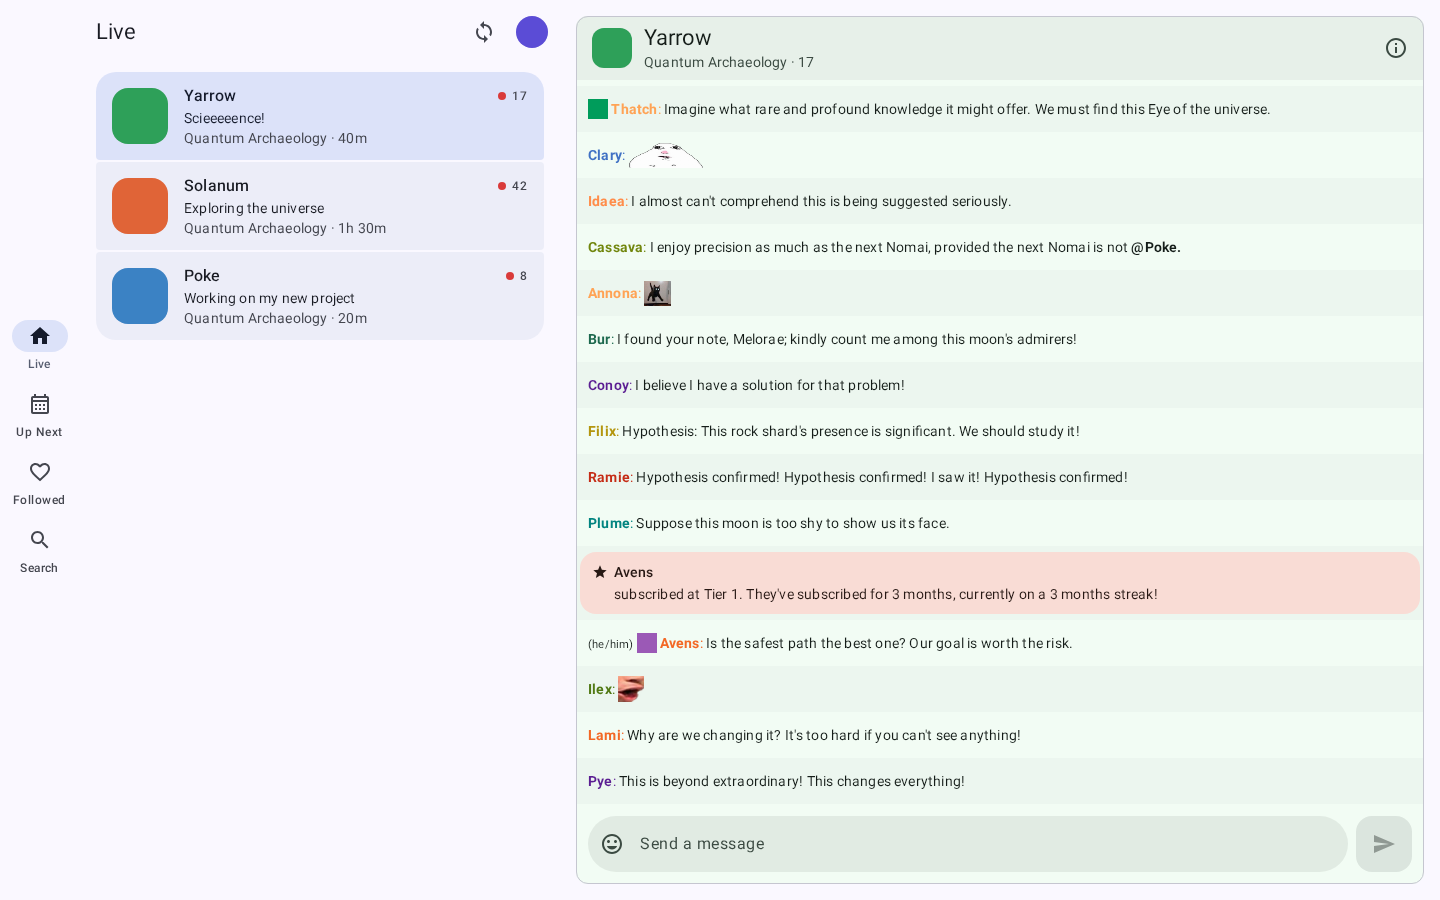
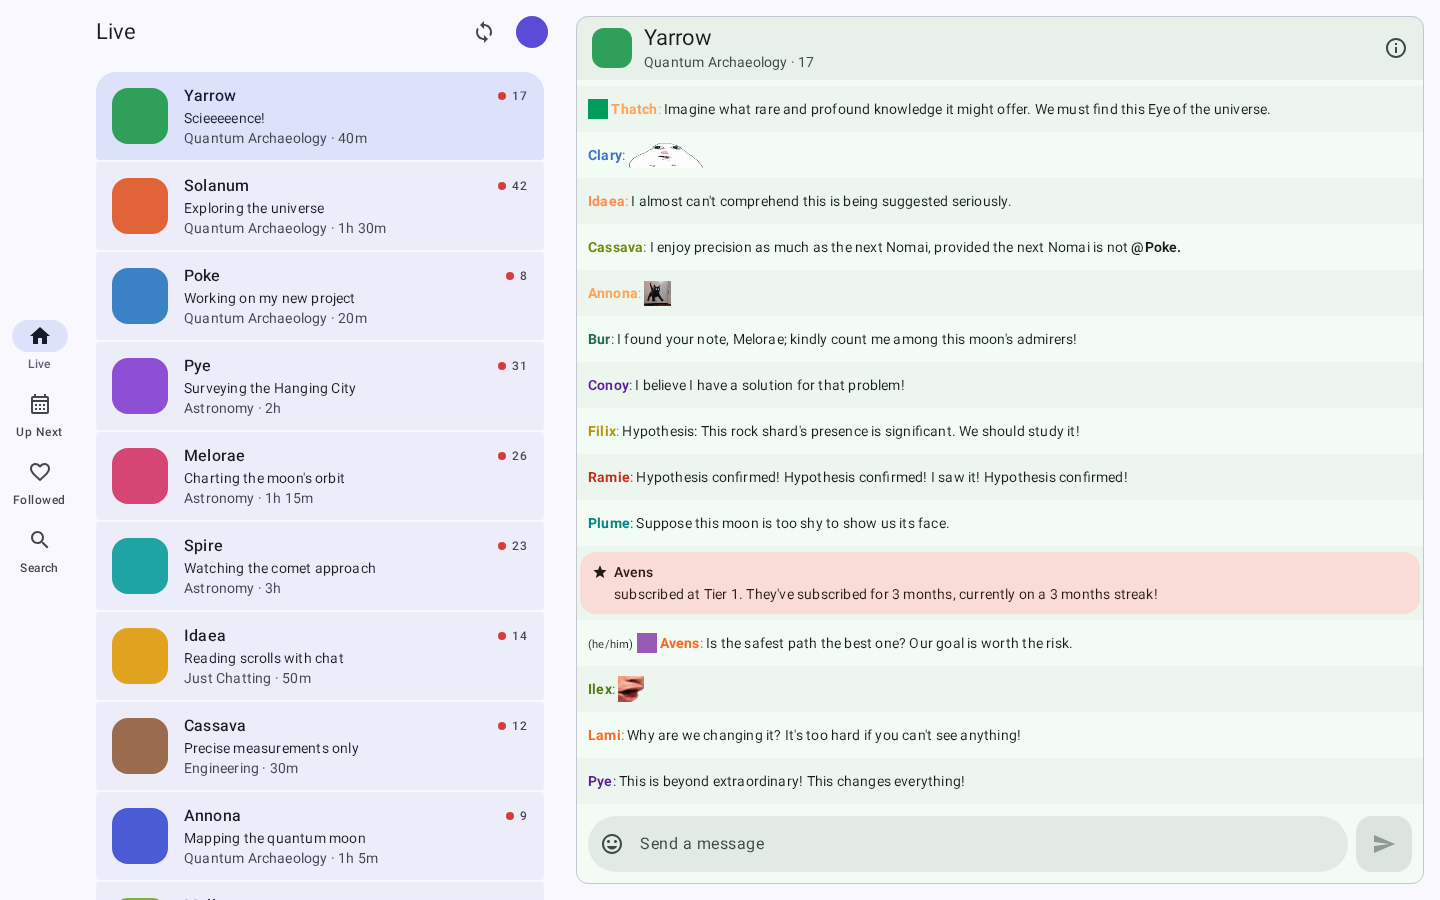
feat: add more data

diff --git a/shared/src/commonMain/kotlin/fr/outadoc/justchatting/feature/demo/data/DemoData.kt b/shared/src/commonMain/kotlin/fr/outadoc/justchatting/feature/demo/data/DemoData.kt
@@ -106,7 +106,17 @@ internal object DemoData {
             description = "All I can give is my best. And as Annona would say, we will find another way.",
         )
 
-    val channels: List<User> = listOf(solanum, yarrow, poke)
+    /** More live channels, so that the list of live streams fills the screen. */
+    private val pye = user(id = "demo-pye", login = "pye", displayName = "Pye", avatar = "demo_avatar_pye")
+    private val melorae = user(id = "demo-melorae", login = "melorae", displayName = "Melorae", avatar = "demo_avatar_melorae")
+    private val spire = user(id = "demo-spire", login = "spire", displayName = "Spire", avatar = "demo_avatar_spire")
+    private val idaea = user(id = "demo-idaea", login = "idaea", displayName = "Idaea", avatar = "demo_avatar_idaea")
+    private val cassava = user(id = "demo-cassava", login = "cassava", displayName = "Cassava", avatar = "demo_avatar_cassava")
+    private val annona = user(id = "demo-annona", login = "annona", displayName = "Annona", avatar = "demo_avatar_annona")
+    private val mallow = user(id = "demo-mallow", login = "mallow", displayName = "Mallow", avatar = "demo_avatar_mallow")
+    private val filix = user(id = "demo-filix", login = "filix", displayName = "Filix", avatar = "demo_avatar_filix")
+
+    val channels: List<User> = listOf(solanum, yarrow, poke, pye, melorae, spire, idaea, cassava, annona, mallow, filix)
 
     val allUsers: List<User> = channels + currentUser
 
@@ -116,6 +126,28 @@ internal object DemoData {
         }
 
     private val category = StreamCategory(id = "demo-category", name = "Quantum Archaeology")
+    private val astronomy = StreamCategory(id = "demo-category-astronomy", name = "Astronomy")
+    private val engineering = StreamCategory(id = "demo-category-engineering", name = "Engineering")
+    private val justChatting = StreamCategory(id = "demo-category-just-chatting", name = "Just Chatting")
+
+    private fun liveStream(
+        user: User,
+        title: String,
+        category: StreamCategory,
+        viewerCount: Long,
+        startedAt: Instant,
+    ) = UserStream(
+        user = user,
+        stream =
+            Stream(
+                id = "demo-stream-${user.login}",
+                userId = user.id,
+                category = category,
+                title = title,
+                viewerCount = viewerCount,
+                startedAt = startedAt,
+            ),
+    )
 
     val liveStreams: List<UserStream> =
         listOf(
@@ -155,6 +187,14 @@ internal object DemoData {
                         startedAt = now - 20.minutes,
                     ),
             ),
+            liveStream(pye, "Surveying the Hanging City", astronomy, viewerCount = 31, startedAt = now - 2.hours),
+            liveStream(melorae, "Charting the moon's orbit", astronomy, viewerCount = 26, startedAt = now - 75.minutes),
+            liveStream(spire, "Watching the comet approach", astronomy, viewerCount = 23, startedAt = now - 3.hours),
+            liveStream(idaea, "Reading scrolls with chat", justChatting, viewerCount = 14, startedAt = now - 50.minutes),
+            liveStream(cassava, "Precise measurements only", engineering, viewerCount = 12, startedAt = now - 30.minutes),
+            liveStream(annona, "Mapping the quantum moon", category, viewerCount = 9, startedAt = now - 65.minutes),
+            liveStream(mallow, "Building a warp core", engineering, viewerCount = 6, startedAt = now - 15.minutes),
+            liveStream(filix, "Studying rock shards", category, viewerCount = 4, startedAt = now - 10.minutes),
         )
 
     val futureSchedule: List<DaySchedule> =

diff --git a/app-android/src/screenshotTest/kotlin/fr/outadoc/justchatting/landing/LandingFixtures.kt b/app-android/src/screenshotTest/kotlin/fr/outadoc/justchatting/landing/LandingFixtures.kt
@@ -93,12 +93,16 @@ internal object LandingFixtures {
         )
 
     private val category = StreamCategory(id = "demo-category", name = "Quantum Archaeology")
+    private val astronomy = StreamCategory(id = "demo-category-astronomy", name = "Astronomy")
+    private val engineering = StreamCategory(id = "demo-category-engineering", name = "Engineering")
+    private val justChatting = StreamCategory(id = "demo-category-just-chatting", name = "Just Chatting")
 
     private fun stream(
         user: User,
         title: String,
         viewerCount: Long,
         startedAt: Instant,
+        category: StreamCategory = this.category,
     ) = UserStream(
         user = user,
         stream =
@@ -116,7 +120,23 @@ internal object LandingFixtures {
     val solanumStream = stream(solanum, title = "Exploring the universe", viewerCount = 42, startedAt = now - 90.minutes)
     val pokeStream = stream(poke, title = "Working on my new project", viewerCount = 8, startedAt = now - 20.minutes)
 
-    val liveStreams: ImmutableList<UserStream> = persistentListOf(yarrowStream, solanumStream, pokeStream)
+    // More live channels, like the demo mode's, so that the list fills the screen.
+    private fun channel(name: String) = user(id = "demo-${name.lowercase()}", displayName = name, avatar = "demo_avatar_${name.lowercase()}")
+
+    val liveStreams: ImmutableList<UserStream> =
+        persistentListOf(
+            yarrowStream,
+            solanumStream,
+            pokeStream,
+            stream(channel("Pye"), "Surveying the Hanging City", viewerCount = 31, startedAt = now - 2.hours, category = astronomy),
+            stream(channel("Melorae"), "Charting the moon's orbit", viewerCount = 26, startedAt = now - 75.minutes, category = astronomy),
+            stream(channel("Spire"), "Watching the comet approach", viewerCount = 23, startedAt = now - 3.hours, category = astronomy),
+            stream(channel("Idaea"), "Reading scrolls with chat", viewerCount = 14, startedAt = now - 50.minutes, category = justChatting),
+            stream(channel("Cassava"), "Precise measurements only", viewerCount = 12, startedAt = now - 30.minutes, category = engineering),
+            stream(channel("Annona"), "Mapping the quantum moon", viewerCount = 9, startedAt = now - 65.minutes),
+            stream(channel("Mallow"), "Building a warp core", viewerCount = 6, startedAt = now - 15.minutes, category = engineering),
+            stream(channel("Filix"), "Studying rock shards", viewerCount = 4, startedAt = now - 10.minutes),
+        )
 
     // Emotes and badges
 
